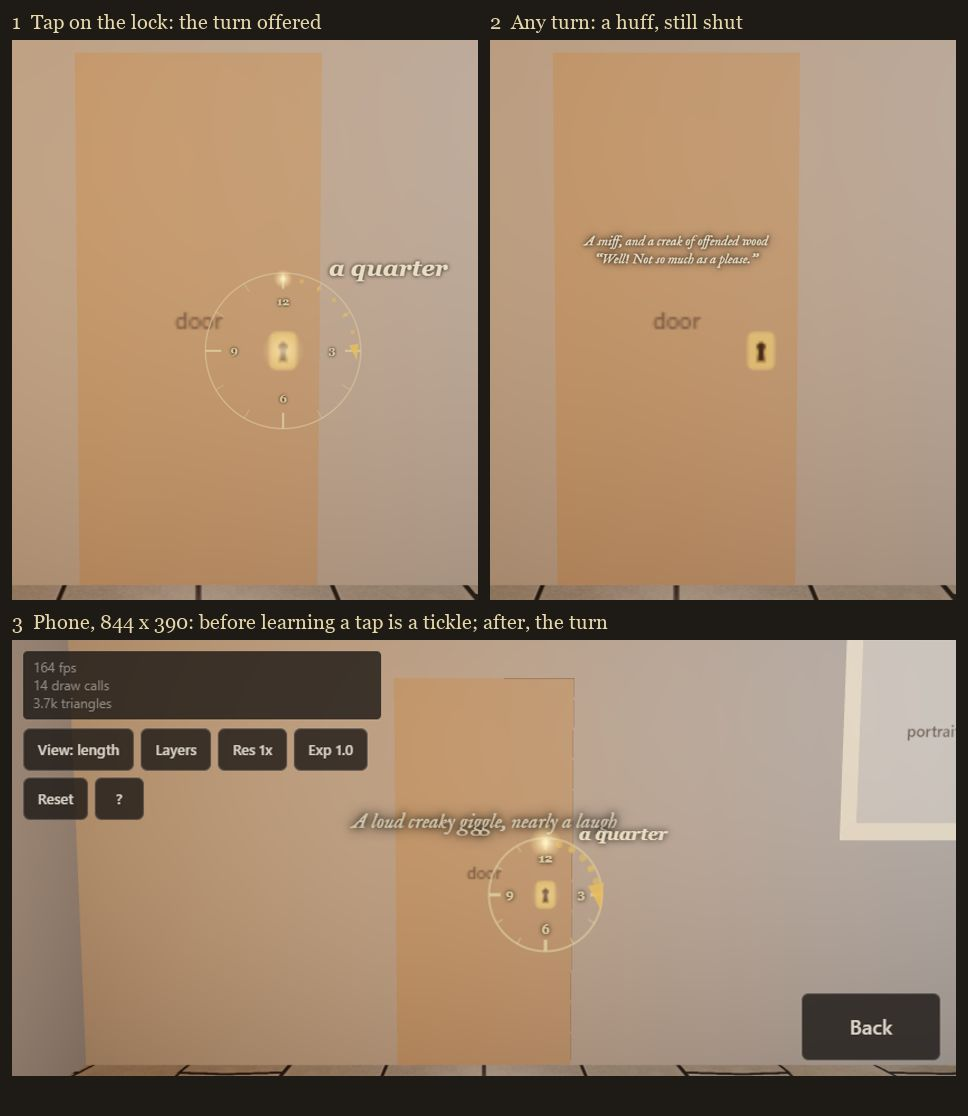
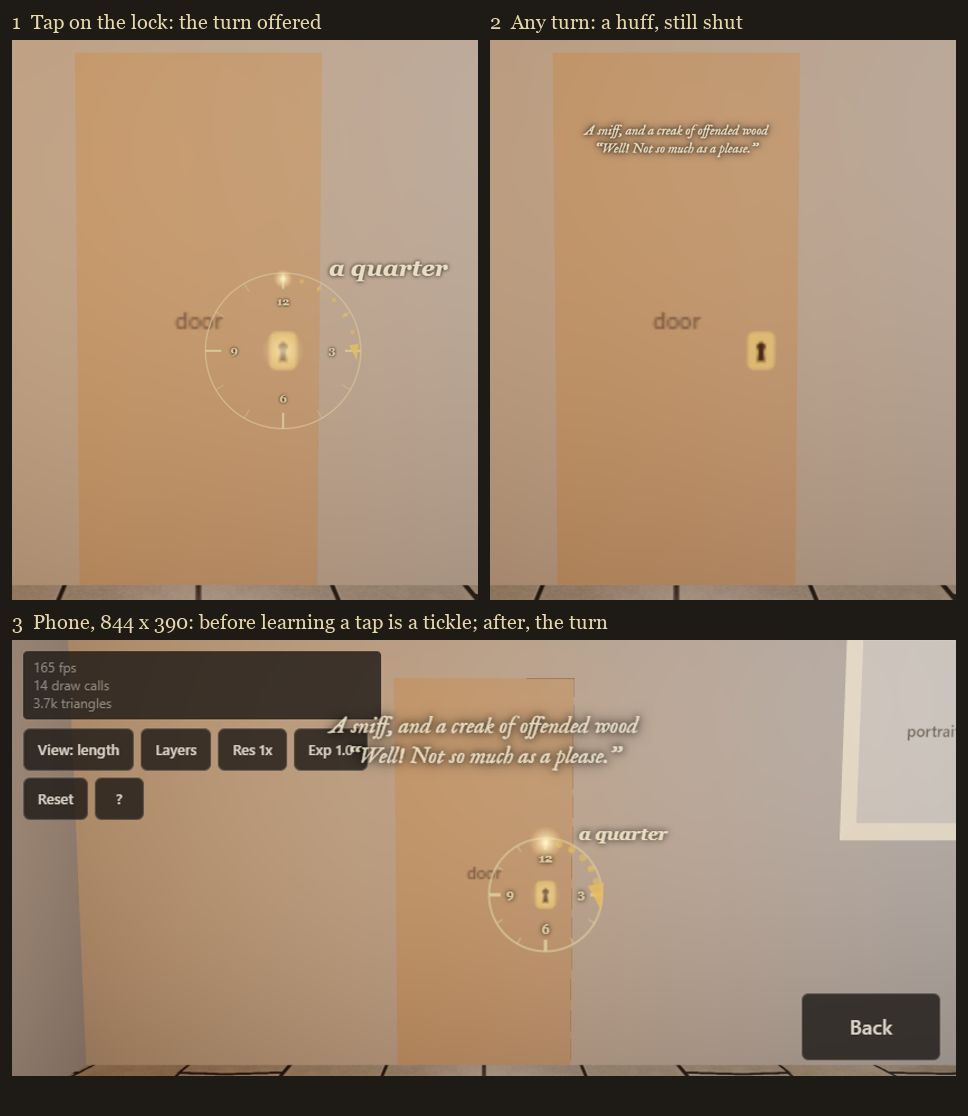
Corridor (req 154): the door's line clear of the lock's face; the sheet remade
Claude-Session: https://claude.ai/code/session_01N3Y9fCncLxTaaQ6En9w3fe

diff --git a/page/corridor.html b/page/corridor.html
@@ -1634,6 +1634,9 @@ function lockOnScreen() {
 }
 function lockOffered() {
   lockDrop();
+  /* a giggle still showing gives way, so it never prints over the lock's face */
+  lineQ = lineQ.filter(function (l) { return l.speaker !== 'door'; });
+  if (lineCur && lineCur.line.speaker === 'door') lineCur.t = Math.min(lineCur.t, 0.35);
   var mine = lockOffer = LumosSpells.openLock({ at: lockOnScreen, stuck: true });
   mine.tap();
   lockTimer = setTimeout(function () { if (lockOffer === mine) mine.cancel(); }, LOCK_WAIT_S * 1000);
@@ -2737,7 +2740,7 @@ var SPEAKER_AT = {
   trevor: function () { return trevorHit.visible ? trevorHit.position.clone() : helmetPos(); },
   sitter: function () { return worldOf(paintingOpp, 0); },
   thing: function () { return new THREE.Vector3(DOOR.x, 1.4, HER_Z); }, /* the polite door, behind which finds turn up */
-  door: function () { return new THREE.Vector3(DOOR.x, 1.4, HER_Z); },  /* its own giggle and creak (req 150) */
+  door: function () { return new THREE.Vector3(DOOR.x, 1.85, HER_Z); }, /* its own giggle and creak (req 150), above the lock's face (req 154) */
   stair: function () { return new THREE.Vector3(STAIR_X, 0.6, MID_Z); }, /* the moving stair's grind, at its head */
   nick: nickHead                                                       /* above his head, beyond the torch that leaned (req 140) */
 };
